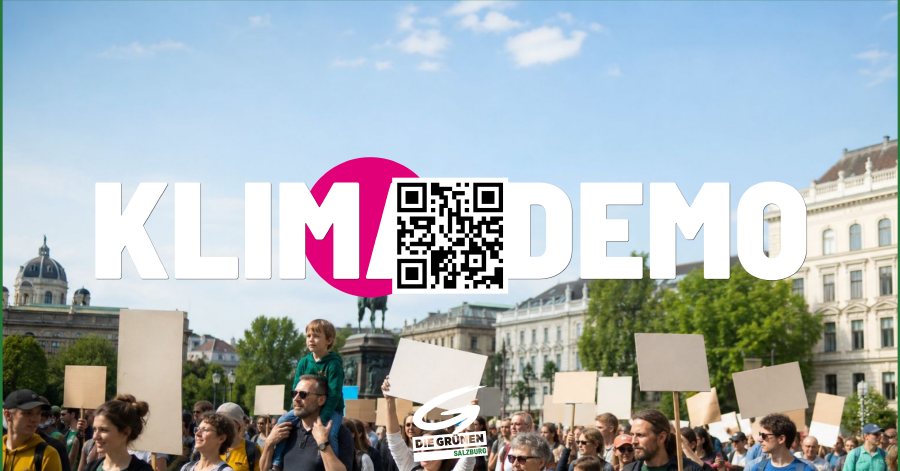
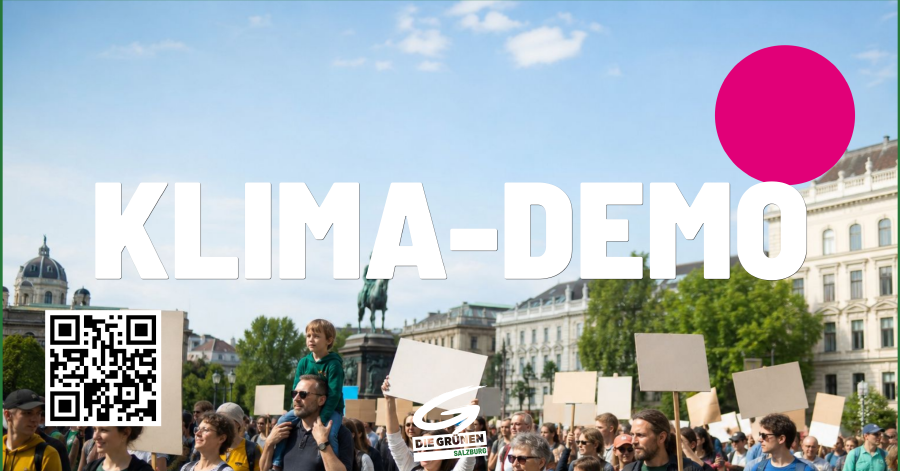
fix(examples): position QR/Störer clear of the headline
- Drag the Störer into a top corner and the QR code into a bottom
  corner via the canvas, the same way a user would, so neither lands
  on top of the centred headline anymore
- Re-export all six example sharepics; the QR no longer obscures
  OPEN-AIR KINO and the Störer + QR no longer cover KLIMA-DEMO
- Keep window.canvas pointing at the live canvas after every template
  switch; it previously went stale on any non-default template, so the
  exposed reference no longer reflects a disposed, empty instance

Changed region(s): [[0.3111, 0.327, 0.5911, 0.6539], [0.7778, 0.0892, 0.9644, 0.4161], [0.0311, 0.6539, 0.1867, 0.9214]]

diff --git a/resources/js/main.js b/resources/js/main.js
@@ -87,6 +87,14 @@ function replaceCanvas() {
 
   canvas.renderAll();
 
+  // Keep the globally exposed reference pointing at the live canvas. Without
+  // this, window.canvas only ever tracked the first canvas built during setup;
+  // every later template switch replaced the internal canvas but left the
+  // global stale, so tooling and tests reading window.canvas saw a disposed,
+  // empty instance after any non-default template was selected.
+  window.canvas = canvas;
+  window.contentRect = contentRect;
+
   // Update dimensions display if the function exists (from wizard.js)
   if (typeof updateCanvasDimensions === "function") {
     setTimeout(() => {
